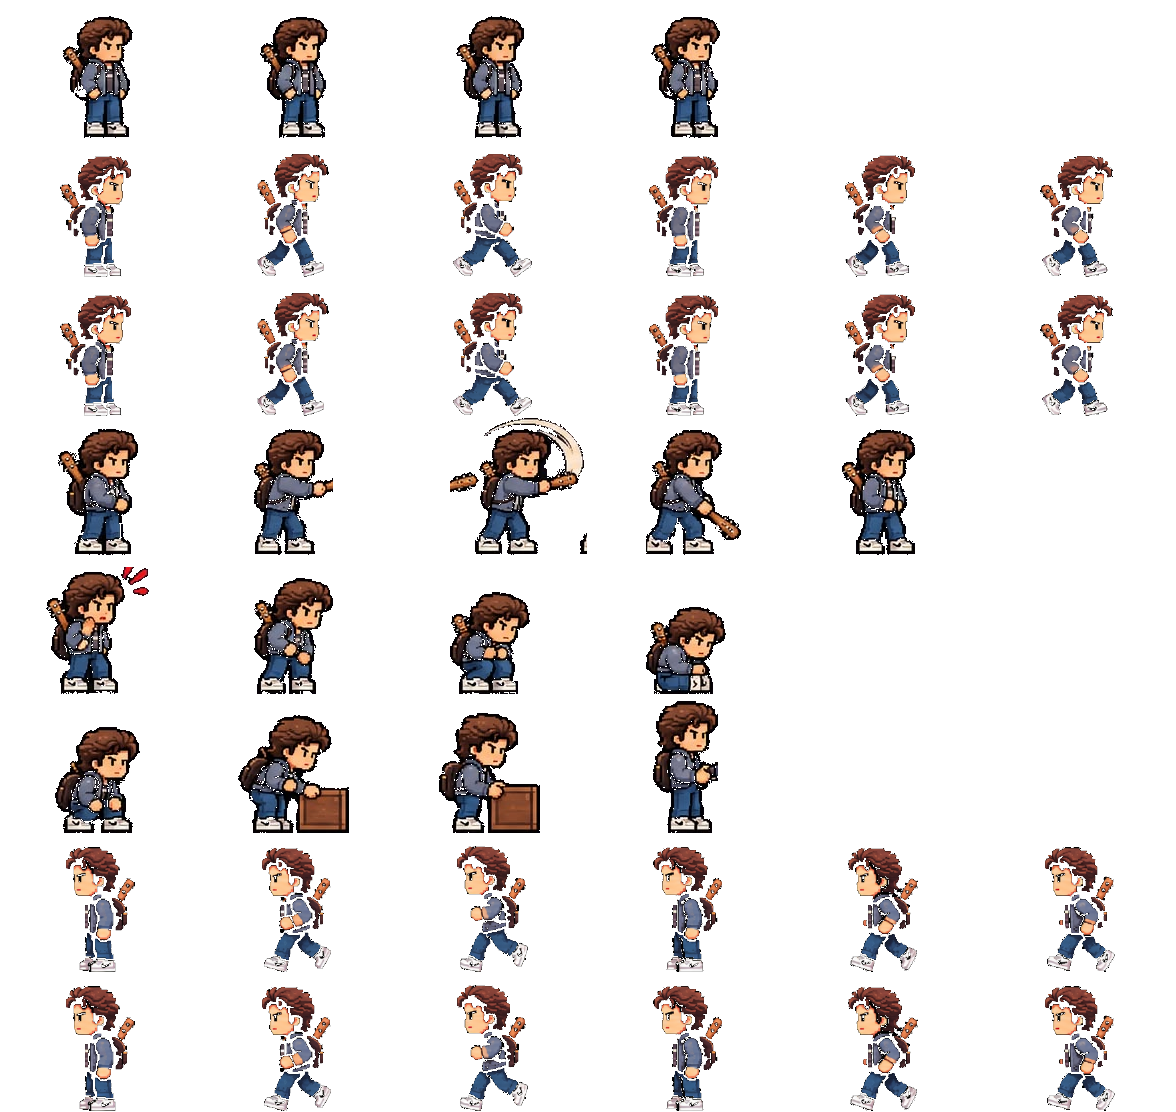
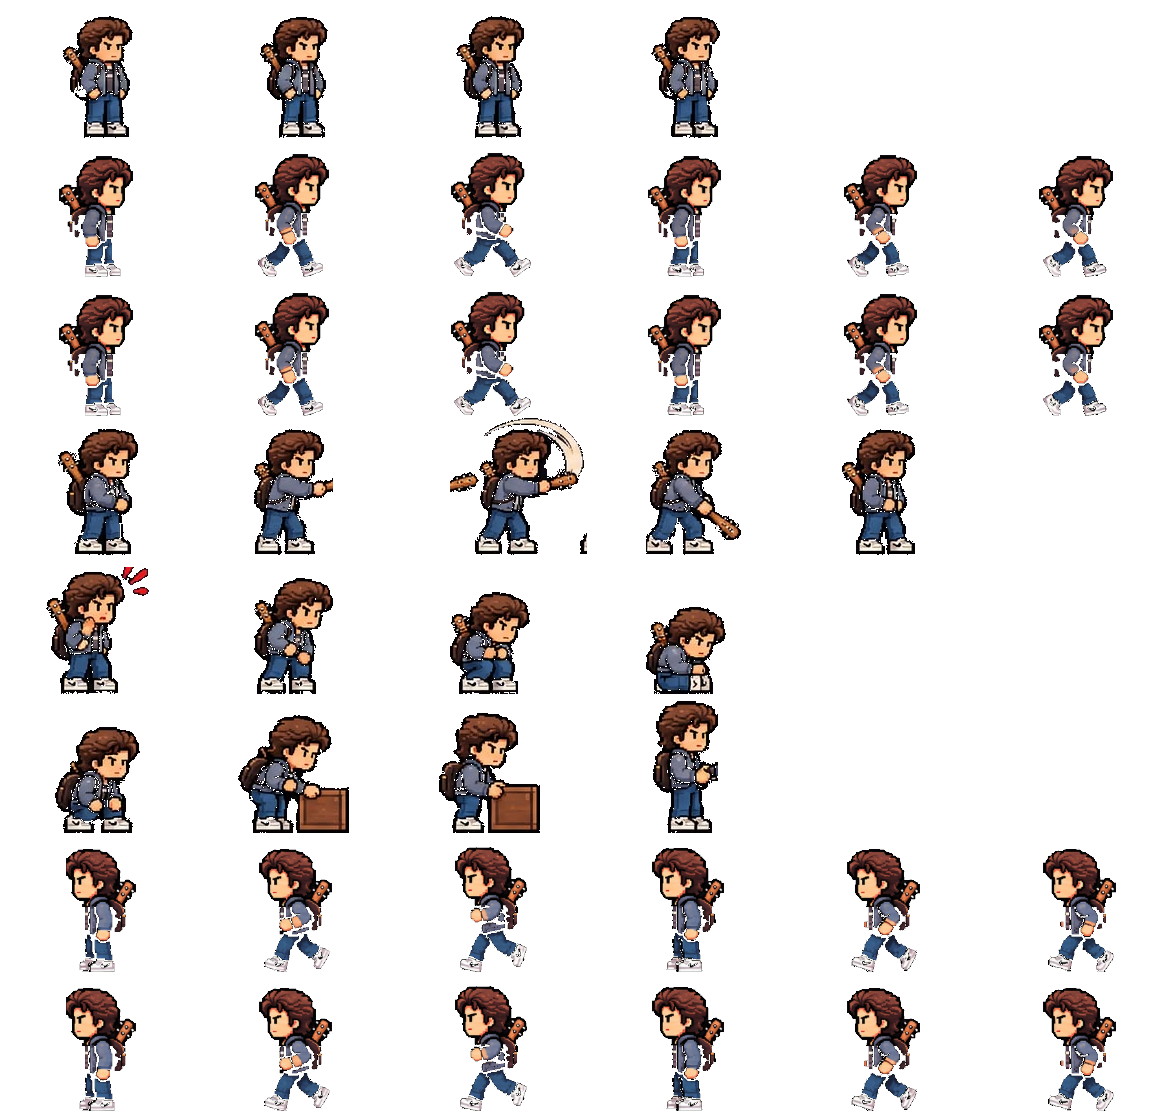
Will y Eleven: andar corregido (ojos y pelo opacos, fila izquierda en espejo); portada con Will el primero

diff --git a/js/game.js b/js/game.js
@@ -1375,7 +1375,7 @@ function drawTitle(t) {
   text('SLUG', W / 2, 215 + bob, 52, '#ff2a3a', 'center', '#2a0008');
   text('SHOOT & RUN EN EL MUNDO DEL REVES', W / 2, 252, 12, '#fff', 'center');
   // desfile de personajes
-  const cs = ['will', 'eleven', 'mike', 'lucas', 'dustin', 'steve'];
+  const cs = ['steve', 'dustin', 'lucas', 'mike', 'eleven', 'will']; // Will va el primero (a la derecha, mirando hacia delante)
   cs.forEach((id, i) => {
     sprite(id, 'walk', Math.floor(t * 8 + i) % ATLAS[id].anims.walk.n, 36 + i * 46, 450, 0.8); // a la izquierda, sin tapar el menú
   });

diff --git a/sw.js b/sw.js
@@ -1,6 +1,6 @@
 /* Service worker: deja el juego instalable y jugable sin conexión.
  * Estrategia "stale-while-revalidate": sirve de la caché y actualiza en segundo plano. */
-const CACHE = 'stranger-slug-v16';
+const CACHE = 'stranger-slug-v17';
 const ASSETS = [
   './', 'index.html', 'manifest.webmanifest',
   'js/atlas.js', 'js/game.js', 'js/touch.js',

diff --git a/js/atlas.js b/js/atlas.js
@@ -184,7 +184,7 @@ window.ATLAS = {
  "lucas": {
   "img": "assets/lucas.png",
   "cw": 155,
-  "ch": 115,
+  "ch": 114,
   "anims": {
    "idle": {
     "row": 0,

diff --git a/tools/build_assets.py b/tools/build_assets.py
@@ -116,7 +116,7 @@ def cut(crop, run, bg, thr=26, solid=False, boost=1.0, inner=12, local_bg=False,
         print('   (aviso) frame toca el borde vertical del recorte', 'arriba' if bb[1] <= 0 else 'abajo')
     return out.crop(bb)
 
-def sheet_frames(sheet, bg, box, n, thr=26, scrub=True, cut_thr=None, local_bg=False, solid_top=0.0):
+def sheet_frames(sheet, bg, box, n, thr=26, scrub=True, cut_thr=None, local_bg=False, solid_top=0.0, fg_thr=14):
     img = Image.open(os.path.join(SRC, sheet)).convert('RGB')
     # borra la rejilla del panel: sus píxeles son grises apagados (el personaje no usa grises medios)
     x0, y0, x1, y1 = box
@@ -127,7 +127,7 @@ def sheet_frames(sheet, bg, box, n, thr=26, scrub=True, cut_thr=None, local_bg=F
             if 66 <= min(c) and max(c) <= 112 and max(c) - min(c) <= 20 and c[0] >= c[1] - 2: px[x, y] = bg
     crop, runs = frames_in(img, box, bg, thr, expect=n)
     ct = cut_thr or thr
-    return [thin_clean(fr) for fr in (cut(crop, r, bg, ct, inner=min(12, ct), local_bg=local_bg, solid_top=solid_top) for r in runs) if fr is not None]
+    return [thin_clean(fr) for fr in (cut(crop, r, bg, ct, inner=min(12, ct), local_bg=local_bg, solid_top=solid_top, fg_thr=fg_thr) for r in runs) if fr is not None]
 
 def head_x(fr):
     """ancla de los frames de andar: centro de cabeza y tronco (8%-45% de la altura), que apenas se mueven en el ciclo;
@@ -190,7 +190,7 @@ def build_char(name, sheet, bg, rows, thr=26, blank=(), solid=False, boost=1.0, 
         h_idle = next(fr.height for a, i, fr, _ in items if a == 'idle' and i == 0)
         for anim, ov in override.items():
             osheet, obg, obox, on = ov['sheet'], ov['bg'], ov['box'], ov['n']
-            kw = dict(thr=ov.get('thr', 26), scrub=ov.get('scrub', True), cut_thr=ov.get('cut_thr'), local_bg=ov.get('local_bg', False), solid_top=ov.get('solid_top', 0.0))
+            kw = dict(thr=ov.get('thr', 26), scrub=ov.get('scrub', True), cut_thr=ov.get('cut_thr'), local_bg=ov.get('local_bg', False), solid_top=ov.get('solid_top', 0.0), fg_thr=ov.get('fg_thr', 14))
             drop = set(ov.get('drop', ()))   # frames "de pie" (pies juntos) que harían parar el ciclo
             pick = ov.get('pick')            # ciclo simétrico: solo estos frames, en este orden
             sel = (lambda frs: [frs[i] for i in pick if i < len(frs)]) if pick else (lambda frs: [f for i, f in enumerate(frs) if i not in drop])
@@ -199,6 +199,7 @@ def build_char(name, sheet, bg, rows, thr=26, blank=(), solid=False, boost=1.0, 
             sets = {anim: right}
             if ov.get('left'):  # fila "Walk ←" de la hoja: se usa tal cual (sin voltear) al mirar a la izquierda
                 left = sel(sheet_frames(osheet, obg, ov['left'], on, **kw))
+                if ov.get('mirror_left'): left = [f.transpose(Image.FLIP_LEFT_RIGHT) for f in right]  # fila izquierda irregular: se usa el espejo
                 # si faltan fotogramas a la izquierda, se rellenan con el espejo de los de la derecha (y al revés)
                 while len(left) < len(right): left.append(right[len(left)].transpose(Image.FLIP_LEFT_RIGHT))
                 while len(right) < len(left): right.append(left[len(right)].transpose(Image.FLIP_LEFT_RIGHT))
@@ -235,7 +236,7 @@ atlas['will'] = build_char('will', 'will.png', (21, 16, 24), {
     'walk':  ((635, 538, 1450, 690), 6, 'c'),
     'shoot': ((40, 768, 712, 925), 5, ('l', 52)),
     'other': ((735, 764, 1520, 925), 7, 'c'),
-}, idle_h=111, override={'walk': dict(sheet='will1.png', bg=(21, 16, 23), box=(300, 75, 1900, 277), left=(300, 340, 1900, 551), n=8, scrub=False, pick=[0, 1, 2, 4, 5, 6])}, blank=[(40, 490, 215, 540), (625, 490, 790, 540), (40, 712, 250, 764), (745, 712, 975, 764)])
+}, idle_h=111, override={'walk': dict(sheet='will1.png', bg=(21, 16, 23), box=(300, 75, 1900, 277), left=(300, 340, 1900, 551), n=8, scrub=False, pick=[0, 1, 2, 4, 5, 6], solid_top=0.45, fg_thr=8, mirror_left=True)}, blank=[(40, 490, 215, 540), (625, 490, 790, 540), (40, 712, 250, 764), (745, 712, 975, 764)])
 atlas['demogorgon'] = build_char('demogorgon', 'demogorgon.png', (19, 18, 25), {
     'idle':   ((45, 452, 595, 595), 4, 'c'),
     'walk':   ((622, 452, 1490, 595), 6, 'c'),
@@ -251,7 +252,7 @@ atlas['eleven'] = build_char('eleven', E, DARK, {
     'walk':  ((1040, 305, 1510, 430), 4, 'c'),
     'power': ((1040, 460, 1510, 590), 4, 'c'),
     'other': ((1040, 640, 1510, 760), 4, 'c'),
-}, override={'walk': dict(sheet='eleven1.png', bg=(22, 15, 21), box=(300, 75, 1900, 277), left=(300, 340, 1900, 551), n=8, scrub=False, pick=[0, 1, 2, 4, 5, 6])})
+}, override={'walk': dict(sheet='eleven1.png', bg=(22, 15, 21), box=(300, 75, 1900, 277), left=(300, 340, 1900, 551), n=8, scrub=False, pick=[0, 1, 2, 4, 5, 6], solid_top=0.45, fg_thr=8, mirror_left=True)})
 # --- Mike (WA0027)
 atlas['mike'] = build_char('mike', 'IMG-20261121-WA0027.jpg', DARK, {
     'idle':  ((1045, 160, 1510, 285), 4, 'c'),
@@ -265,7 +266,7 @@ atlas['dustin'] = build_char('dustin', 'IMG-20261121-WA0028.jpg', DARK, {
     'walk':  ((1045, 305, 1510, 430), 4, 'c'),
     'talk':  ((1045, 460, 1510, 590), 4, 'c'),
     'other': ((1045, 640, 1510, 760), 4, 'c'),
-}, override={'walk': dict(sheet='dustin1.png', bg=(17, 13, 16), box=(300, 75, 1900, 277), left=(300, 340, 1900, 551), n=8, scrub=False, pick=[0, 1, 2, 4, 5, 6])})
+}, override={'walk': dict(sheet='dustin1.png', bg=(17, 13, 16), box=(300, 75, 1900, 277), left=(300, 340, 1900, 551), n=8, scrub=False, pick=[0, 1, 2, 4, 5, 6], solid_top=0.45, fg_thr=8)})
 # --- Steve (WA0029)
 S = 'IMG-20261121-WA0029.jpg'
 atlas['steve'] = build_char('steve', S, DARK, {
@@ -275,14 +276,14 @@ atlas['steve'] = build_char('steve', S, DARK, {
     'attack': ((40, 810, 560, 955), 5, ('l', 40)),
     'hurt':   ((595, 825, 985, 955), 4, 'c'),
     'other':  ((1020, 815, 1440, 955), 4, 'c'),
-}, override={'walk': dict(sheet='steve1.png', bg=(17, 13, 18), box=(300, 75, 1900, 277), left=(300, 340, 1900, 551), n=8, scrub=False, pick=[0, 1, 2, 4, 5, 6]),
-              'run': dict(sheet='steve1.png', bg=(17, 13, 18), box=(300, 75, 1900, 277), left=(300, 340, 1900, 551), n=8, scrub=False, pick=[0, 1, 2, 4, 5, 6])})
+}, override={'walk': dict(sheet='steve1.png', bg=(17, 13, 18), box=(300, 75, 1900, 277), left=(300, 340, 1900, 551), n=8, scrub=False, pick=[0, 1, 2, 4, 5, 6], solid_top=0.45, fg_thr=8),
+              'run': dict(sheet='steve1.png', bg=(17, 13, 18), box=(300, 75, 1900, 277), left=(300, 340, 1900, 551), n=8, scrub=False, pick=[0, 1, 2, 4, 5, 6], solid_top=0.45, fg_thr=8)})
 # --- Lucas (lucas1.png: andar; lucas2.png: reposo, tirachinas y otras acciones)
 atlas['lucas'] = build_char('lucas', 'lucas2.png', (22, 16, 24), {
     'idle':  ((60, 535, 530, 685), 4, 'torso'),
     'shoot': ((40, 770, 715, 920), 5, 'torso'),
     'other': ((755, 775, 1515, 920), 7, 'torso'),
-}, idle_h=111, override={'walk': dict(sheet='lucas1.png', bg=(26, 22, 30), box=(320, 78, 1875, 292), left=(320, 345, 1875, 560), n=8, scrub=False, pick=[0, 1, 2, 4, 5, 6])})
+}, idle_h=111, override={'walk': dict(sheet='lucas1.png', bg=(26, 22, 30), box=(320, 78, 1875, 292), left=(320, 345, 1875, 560), n=8, scrub=False, pick=[0, 1, 2, 4, 5, 6], solid_top=0.45, fg_thr=8)})
 # --- Vecna (vicna.png): hoja nueva de 8 frames por animación, sin reescalado suave (nítido)
 def build_vecna(sheet='vicna.png', bg=(11, 8, 11), target_h=176):
     img = Image.open(os.path.join(SRC, sheet)).convert('RGB')
